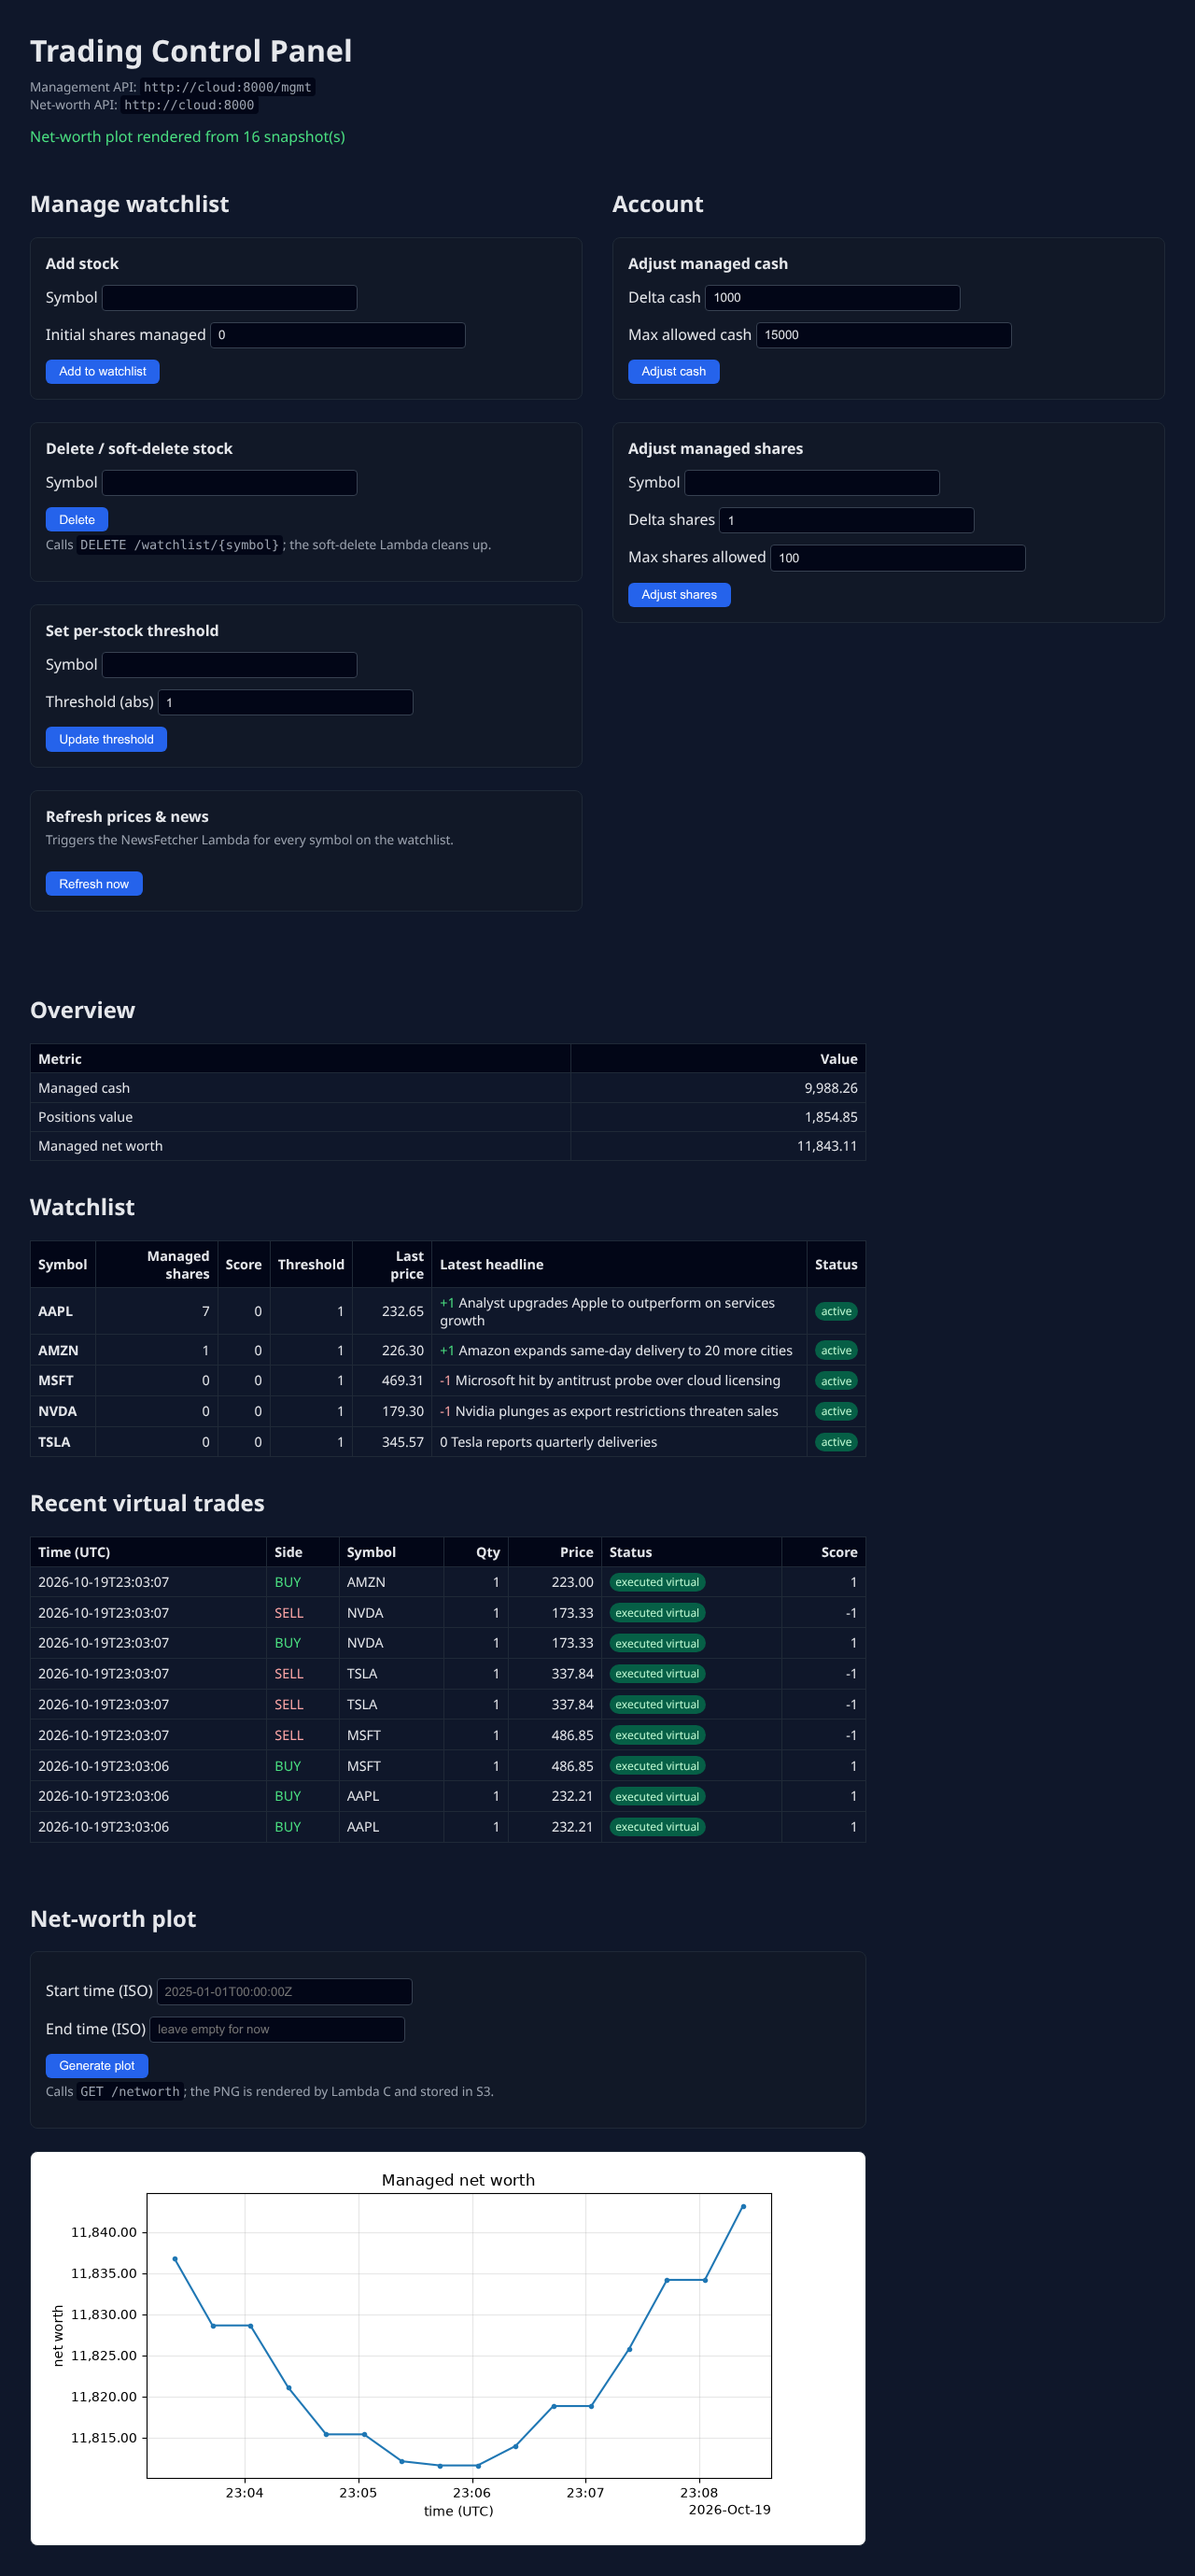
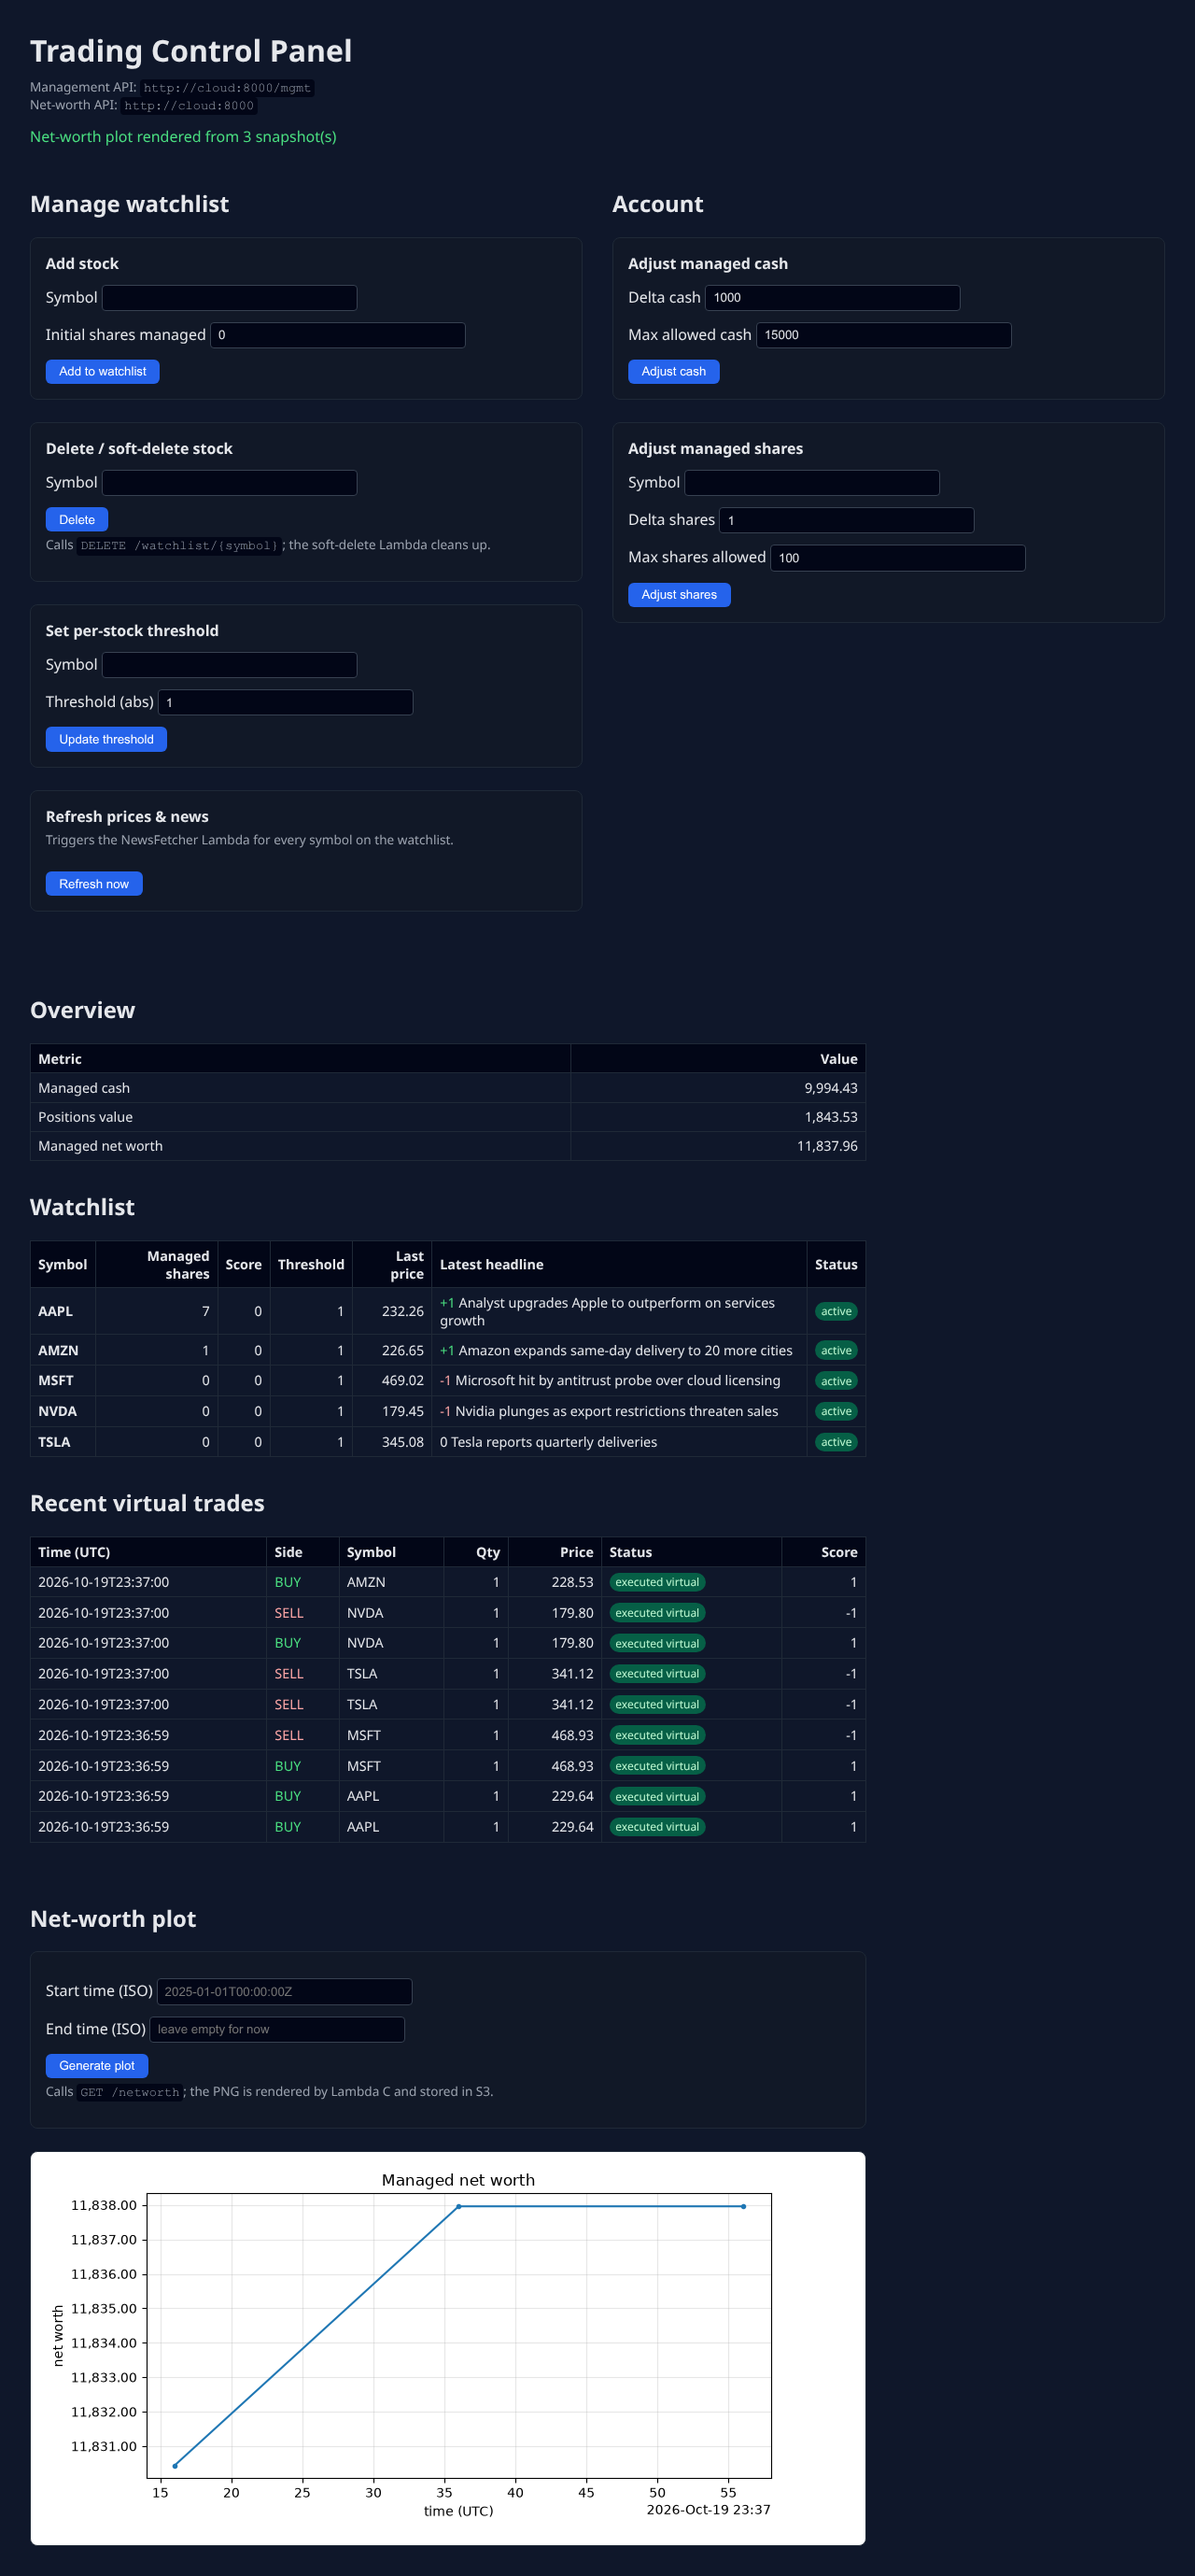
chore: bound demo resources and refresh verified portfolio assets

diff --git a/scripts/capture_screenshot.js b/scripts/capture_screenshot.js
@@ -6,6 +6,7 @@
 // Uses the Chromium that Playwright downloaded (or CHROMIUM_PATH). Waits until the demo has
 // produced trades, generates the net-worth plot and writes a full-page PNG.
 const path = require("path");
+const fs = require("fs");
 const { chromium } = require("playwright-core");
 
 const url = process.env.WEB_URL || "http://localhost:9090";
@@ -16,24 +17,43 @@ const minTrades = Number(process.env.MIN_TRADES || 6);
   const browser = await chromium.launch({
     executablePath: process.env.CHROMIUM_PATH || undefined,
   });
-  const page = await browser.newPage({ viewport: { width: 1280, height: 900 } });
+  try {
+    const page = await browser.newPage({ viewport: { width: 1280, height: 900 } });
+    const errors = [];
+    page.on("pageerror", error => errors.push(error.message));
 
-  const deadline = Date.now() + 120_000;
-  for (;;) {
-    await page.goto(url);
-    const rows = await page.locator("h2:has-text('Recent virtual trades') ~ table tbody tr").count();
-    if (rows >= minTrades) break;
-    if (Date.now() > deadline) throw new Error(`only ${rows} trades after 2 minutes`);
-    await page.waitForTimeout(3000);
+    const deadline = Date.now() + 120_000;
+    for (;;) {
+      const response = await page.goto(url);
+      if (!response.ok()) throw new Error(`web app returned HTTP ${response.status()}`);
+      const rows = await page.locator("h2:has-text('Recent virtual trades') ~ table tbody tr").count();
+      if (rows >= minTrades) break;
+      if (Date.now() > deadline) throw new Error(`only ${rows} trades after 2 minutes`);
+      await page.waitForTimeout(3000);
+    }
+
+    // Wait for several scheduled snapshots so the plot verifies a time series.
+    for (;;) {
+      await page.getByRole("button", { name: "Generate plot" }).click();
+      const status = await page.locator(".msg-ok, .msg-err").textContent();
+      const points = Number(status.match(/from (\d+) snapshot/)?.[1] || 0);
+      if (points >= 3) break;
+      if (Date.now() > deadline) throw new Error(`plot never reached 3 snapshots: ${status}`);
+      await page.waitForTimeout(5000);
+    }
+    await page.waitForSelector("img[alt='Net-worth plot']");
+    await page.waitForFunction(() => {
+      const img = document.querySelector("img[alt='Net-worth plot']");
+      return img && img.complete && img.naturalWidth > 0;
+    });
+    if (errors.length) throw new Error(`browser errors: ${errors.join("; ")}`);
+    fs.mkdirSync(path.dirname(out), { recursive: true });
+    await page.screenshot({ path: out, fullPage: true });
+    console.log(`wrote ${out}`);
+  } finally {
+    await browser.close();
   }
-
-  await page.getByRole("button", { name: "Generate plot" }).click();
-  await page.waitForSelector("img[alt='Net-worth plot']");
-  await page.waitForFunction(() => {
-    const img = document.querySelector("img[alt='Net-worth plot']");
-    return img && img.complete && img.naturalWidth > 0;
-  });
-  await page.screenshot({ path: out, fullPage: true });
-  await browser.close();
-  console.log(`wrote ${out}`);
-})();
+})().catch(error => {
+  console.error(error);
+  process.exitCode = 1;
+});

diff --git a/README.md b/README.md
@@ -6,7 +6,7 @@ A serverless, event-driven watchlist and **paper-trading** system on AWS, define
 
 ![Control panel of the local demo: watchlist with sentiment scores, virtual trades and the net-worth chart](docs/screenshot.png)
 
-*The local demo after a couple of minutes: five stocks, scored headlines, executed virtual trades and the net-worth chart rendered by the plotter Lambda. News and prices in the demo are canned fixtures (see [Local demo](#local-demo)).*
+*The local demo after seeding: five stocks, scored headlines, executed virtual trades and the net-worth chart rendered by the plotter Lambda. News and prices in the demo are canned fixtures (see [Local demo](#local-demo)).*
 
 ## What it does
 
@@ -125,7 +125,7 @@ All items of one tenant share a partition: `PK = ACCOUNT#<account_id>` (the AWS 
 | `TRADE#<ts>#<decision_id>` | virtual trade log, including `REJECTED_*` | trade worker |
 | `SCORE#<SYMBOL>#<ts>` | sentiment history per stock | scorer |
 | `NEWSHASH#<SYMBOL>#<hash>` | "news already seen" marker, TTL | fetcher |
-| `SCORED#<news_id>` | "already scored" marker, TTL | scoring |
+| `SCORED#<news_id>` | scoring result and immutable decision payload for delivery retries, TTL | scoring |
 | `OP#<op_id>` | outcome of an asynchronous command (`APPLIED`/`REJECTED`), TTL | `stock_info_writer` |
 | `DECISION#<decision_id>` | "trade already executed" marker, TTL | trade worker |
 
@@ -141,7 +141,7 @@ Prerequisites: [uv](https://docs.astral.sh/uv/), Node.js 22 (CDK tests and `cdk 
 
 ```bash
 make install        # uv sync: locked Python 3.12 environment
-make test           # 295 tests: handlers on moto, CDK assertions, end-to-end pipeline
+make test           # handlers on moto, CDK assertions, end-to-end pipeline
 make lint           # ruff check + format check
 make synth          # cdk synth, offline, no AWS credentials
 ```
@@ -163,7 +163,16 @@ What is real and what is canned in the demo:
 
 `make smoke` (also run in CI) starts the demo, waits until trades appear in the UI and tears it down. To try the real yfinance provider, run the fetcher with `NEWS_PROVIDER=yfinance` and the layer built by `make layers`.
 
-Without Docker: `uv run python local_app/local_cloud.py` starts the emulator on `:5000`/`:8000`; the other pieces are plain scripts (`PYTHONPATH=lambda:local_app`, `AWS_ENDPOINT_URL=http://127.0.0.1:5000`; see [`local_app/.env.example`](local_app/.env.example)).
+To reproduce the screenshot with Playwright (Node.js required):
+
+```bash
+npx --yes playwright@1.57.0 install chromium  # skip if this browser is already cached
+CAPTURE_SCREENSHOT=1 WEB_PORT=41090 make smoke
+```
+
+This waits for virtual trades and at least three scheduled snapshots, generates the plot through the UI, writes `docs/screenshot.png`, and stops the stack. `CHROMIUM_PATH` can select an existing Chromium executable. The demo binds to localhost; each service has a memory and process limit.
+
+For development without Docker, `PYTHONPATH=lambda:local_app uv run python local_app/local_cloud.py` starts the emulator on `:5000`/`:8000`. The web UI, seed and worker are separate scripts; configure their environment from `docker-compose.yml`, replacing the `cloud` hostname with `127.0.0.1`. The [environment example](local_app/.env.example) describes connections to a deployed AWS stack.
 
 ### Deploying to AWS (documented, not executed in this repo's CI)
 
@@ -202,7 +211,7 @@ Each Lambda is packaged from `lambda/`: its own package plus `common/` (the CDK 
 
 ## Tests
 
-`make test` runs 295 tests in about a minute (coverage ~91 %):
+`make test` runs the suite (coverage ~91 %):
 
 * every Lambda handler against moto (DynamoDB, S3, SNS, SQS, STS) with realistic event shapes (SNS-in-SQS envelope, API Gateway proxy, EventBridge scheduled event, yfinance payloads) kept under `tests/fixtures/`;
 * regression tests for each bug listed below;
@@ -211,11 +220,13 @@ Each Lambda is packaged from `lambda/`: its own package plus `common/` (the CDK 
 
 CI ([`.github/workflows/ci.yml`](.github/workflows/ci.yml)): ruff lint and format check; pytest with a coverage gate; `cdk synth` with the CLI; layer build and size check; the docker compose smoke test.
 
+See the [verification record](docs/verification.md) for commands, measured coverage, offline synthesis and screenshot evidence.
+
 ## Design notes and trade-offs
 
 * **At-least-once delivery is assumed everywhere.** Commands carry an `op_id`; the state change and an `OP#` marker are written in one DynamoDB transaction. News ids are content hashes (deterministic S3 key, `SCORED#` marker). Trade decisions carry a deterministic `decision_id`, and the worker executes cash, shares, trade log and a `DECISION#` marker in a single transaction. Handlers return per-message failures (`ReportBatchItemFailures`), so one bad message is retried and eventually dead-lettered without replaying the batch.
-* **Balance changes go through the queue, absolute settings do not.** Add-stock, cash and share deltas are validated by the API, applied by one writer (`stock_info_writer`) with optimistic concurrency, and answered with `202` + `GET /operations/{id}`. Threshold and externally supplied sentiment are idempotent absolute writes and stay synchronous.
-* **A decision consumes the score.** After a BUY/SELL decision the stock's score resets to 0 (`decision_count` advances), so neutral news cannot re-trigger the same trade.
+* **Balance commands go through the queue.** Add-stock, cash and share deltas are validated by the API, applied by `stock_info_writer` with optimistic concurrency, and answered with `202` + `GET /operations/{id}`. Threshold settings and externally supplied sentiment stay synchronous. Sentiment is a delta: callers must supply a stable `event_id` when retrying `POST /sentiment`.
+* **A decision consumes the score atomically.** The score resets to 0, `decision_count` advances, and the immutable decision payload is saved on the `SCORED#` marker in one transaction. A failed or ambiguous SNS publish replays that payload on redelivery, even after other headlines arrive. Optimistic conditions protect the score, threshold and decision counter from concurrent changes. The worker requires a stable decision ID and a positive whole-number quantity.
 * **Sentiment is a lexicon, on purpose.** VADER plus ~100 finance terms is deterministic, tiny (fits a layer, no model download) and testable. It sits behind `SentimentScorer`; a model-backed scorer can be added to `BACKENDS`. It looks at one headline and summary at a time and misses context and sarcasm.
 * **The local runtime reuses the production wiring.** `local_cloud.py` builds queues and filter subscriptions from the same `topology.py` as the CDK stack and calls the real handlers, so the demo exercises the deployed routing rather than a re-implementation. moto is not AWS, though: see below.
 * **Trade-off, news retention:** news of active stocks is never expired; only soft-deleted stocks are cleaned (tag after 3 weeks, delete after 6).
@@ -229,9 +240,10 @@ CI ([`.github/workflows/ci.yml`](.github/workflows/ci.yml)): ruff lint and forma
 ## Known limitations and roadmap
 
 * **Not deployed or verified on real AWS** (no credentials were available): correctness rests on moto, CDK assertions and `cdk synth`. IAM completeness, API Gateway behaviour and real SNS filtering are untested.
-* The demo uses fixture news; live yfinance was only checked manually (prices work; `Ticker.news` returned an empty list at the time, so the provider falls back to `yf.Search`). yfinance is an unofficial API and can break.
+* Live yfinance is not exercised in CI or the deterministic demo. Provider tests use recorded payloads, including the `Ticker.news` / `yf.Search` fallback. yfinance is an unofficial API and can break.
 * Single tenant: the account id is the AWS account id, and S3 news keys are not account-scoped (a soft delete affects every account's news for that symbol).
 * The API key is a shared secret; there is no per-user auth. No CloudWatch alarms on the DLQs.
+* Standard SQS queues can deliver decisions out of order. Deduplication is bounded by marker retention (30 days for commands, 45 days for scoring/trades); replay failed deliveries from the DLQ before those markers expire. Cached summary valuations are eventually consistent with concurrent trades and price changes.
 * The retention cleaner scans the table once a day; fine at this size, not at scale.
 * Roadmap ideas: alarms on DLQ depth, Cognito/IAM auth, a model-backed scorer behind the same interface, account-scoped S3 keys, a read API so the UI does not need DynamoDB credentials.
 

diff --git a/docs/verification.md b/docs/verification.md
@@ -1,0 +1,36 @@
+# Verification record
+
+Verified on 2026-10-19 from a separate clean source directory, without an existing virtual
+environment, built layers, or CDK output. No AWS account credentials or deployment were used.
+
+| Command / check | Result |
+|---|---|
+| `make install` | Locked environment installed on Python 3.12.7 |
+| `make lint` | Ruff lint and format checks passed (63 Python files) |
+| `uv run --no-sync pytest --cov --cov-report=term:skip-covered --cov-fail-under=85` | **308 passed**, 91.68% coverage, 90.14 seconds on this host |
+| `UV_OFFLINE=1 npm_config_offline=true make synth` | All three stacks synthesized using cached tools, with missing-layer warnings as documented |
+| `./scripts/build_layers.sh` | Linux x86_64 / Python 3.12 wheels built: matplotlib 125 MiB, sentiment 3 MiB, yfinance 142 MiB; each below the size gate |
+| `docker build -f local_app/Dockerfile ...` | Image built from the clean source; build context 727 kB |
+| `cdk synth --quiet --no-notices --no-lookups` inside `docker run --network none` | All three stacks synthesized **with networking disabled** and real built layers |
+| `CAPTURE_SCREENSHOT=1 SKIP_BUILD=1 WEB_PORT=41090 ./scripts/smoke_local_demo.sh` | Compose pipeline fetched fixture news, scored it and executed trades; Playwright generated the plot and captured `docs/screenshot.png` |
+
+The screenshot is 285,803 bytes and shows five watchlist entries, nine virtual trades and
+three scheduled net-worth snapshots. The browser reported no page errors. The smoke script
+removed its containers and network after capture.
+
+New regression cases cover failed/ambiguous SNS delivery after subsequent news, concurrent
+score updates, invalid trade quantities, missing decision IDs, and partial S3 cleanup failures
+in both queued and scheduled handlers. The inherited suite also covers all nine handlers,
+CDK wiring and IAM assertions, and the local HTTP pipeline.
+
+On the shared verification host, heavy work ran under `flock` and a user systemd scope with
+`MemoryMax=6G` / `MemorySwapMax=0`, with at least 8 GiB available before each heavy step.
+Docker build and offline-synthesis containers had 1.5 GiB caps; the demo used the committed
+per-service memory limits. Stack startup, browser capture and teardown shared one lock.
+
+The [CI workflow](../.github/workflows/ci.yml) independently runs lint, the coverage-gated
+suite, credential-free synthesis, layer builds and the Compose smoke test on pushes and PRs.
+See [branch runs](https://github.com/Ctwqk/cloud-stock-operator/actions/workflows/ci.yml?query=branch%3Aportfolio-upgrade)
+for the latest result.
+
+Real AWS deployment/IAM behavior and live yfinance availability remain unverified.
